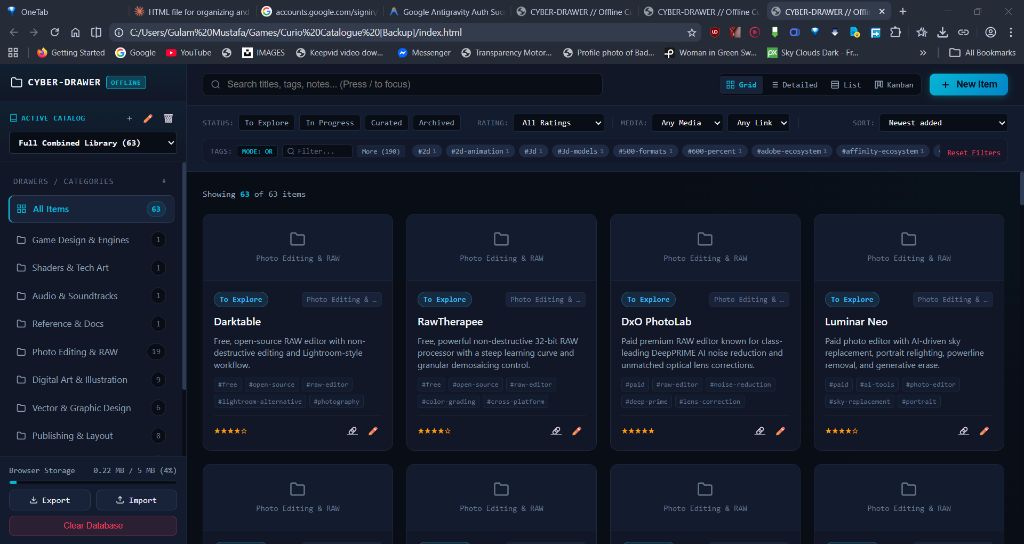
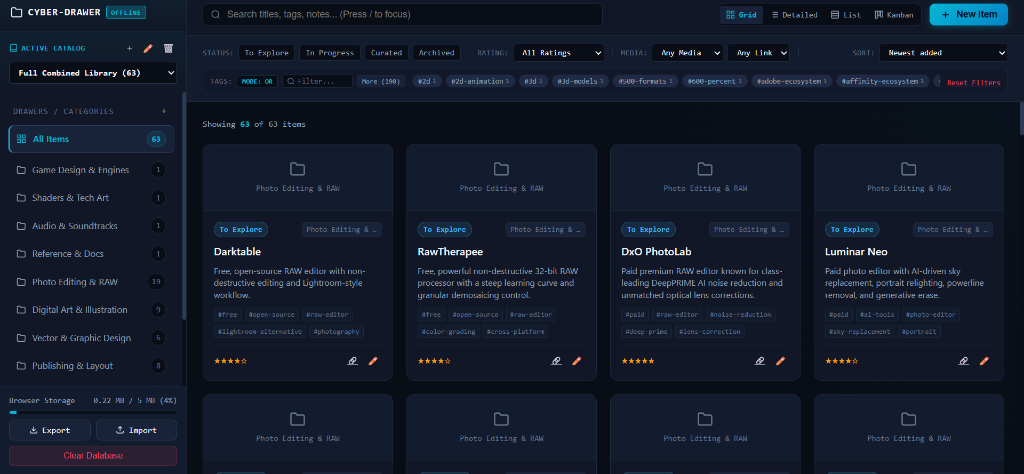
Update README and crop browser chrome/tabs from dashboard screenshot

diff --git a/README.md b/README.md
@@ -67,6 +67,8 @@ Unlike traditional cloud bookmarkers or notes apps, CURIO runs completely on you
 | :---: | :---: |
 | ![List View](Screenshots/List-view.png) | ![Edit View](Screenshots/Edit-view.png) |
 
+- **🎨 5 Cyberpunk & Minimalist Themes**: Switch between *Cyber Cyan* (default), *Synthwave Sunset*, *Matrix Terminal*, *Nord Frost*, and *Midnight Gold* with instant theme persistence.
+- **⚙ Settings Hub & Live Stats HUD**: Real-time storage estimation, catalog counters, and shortcuts cheatsheet.
 - **🏷 Scoped Tag Cloud with Live Search**:
   - Contextual tag strip that adapts to the currently active drawer.
   - Instant tag search box (`Filter...`) with expand/collapse view and item frequency badges.
@@ -74,15 +76,13 @@ Unlike traditional cloud bookmarkers or notes apps, CURIO runs completely on you
 
 ---
 
-## 🚀 Getting Started
+## 🚀 Getting Started & Live Demo
 
-1. **Clone the Repository**:
-   `ash
-   git clone https://github.com/fahimarnob113-ctrl/Curio--The-Curator.git
-   `
-2. **Launch**:
-   Double-click index.html in any modern web browser (Chrome, Edge, Firefox, Brave, Safari, Opera).
-3. **No Setup Required**: No Node.js, Python server, or build step needed.
+- **🌐 Live Demo (GitHub Pages)**: [https://fahimarnob113-ctrl.github.io/Curio--The-Curator/](https://fahimarnob113-ctrl.github.io/Curio--The-Curator/)
+- **💻 Run Locally**:
+  1. Clone this repository: `git clone https://github.com/fahimarnob113-ctrl/Curio--The-Curator.git`
+  2. Double-click `index.html` in your browser.
+  3. No build step, node modules, or server required!
 
 ---
 
